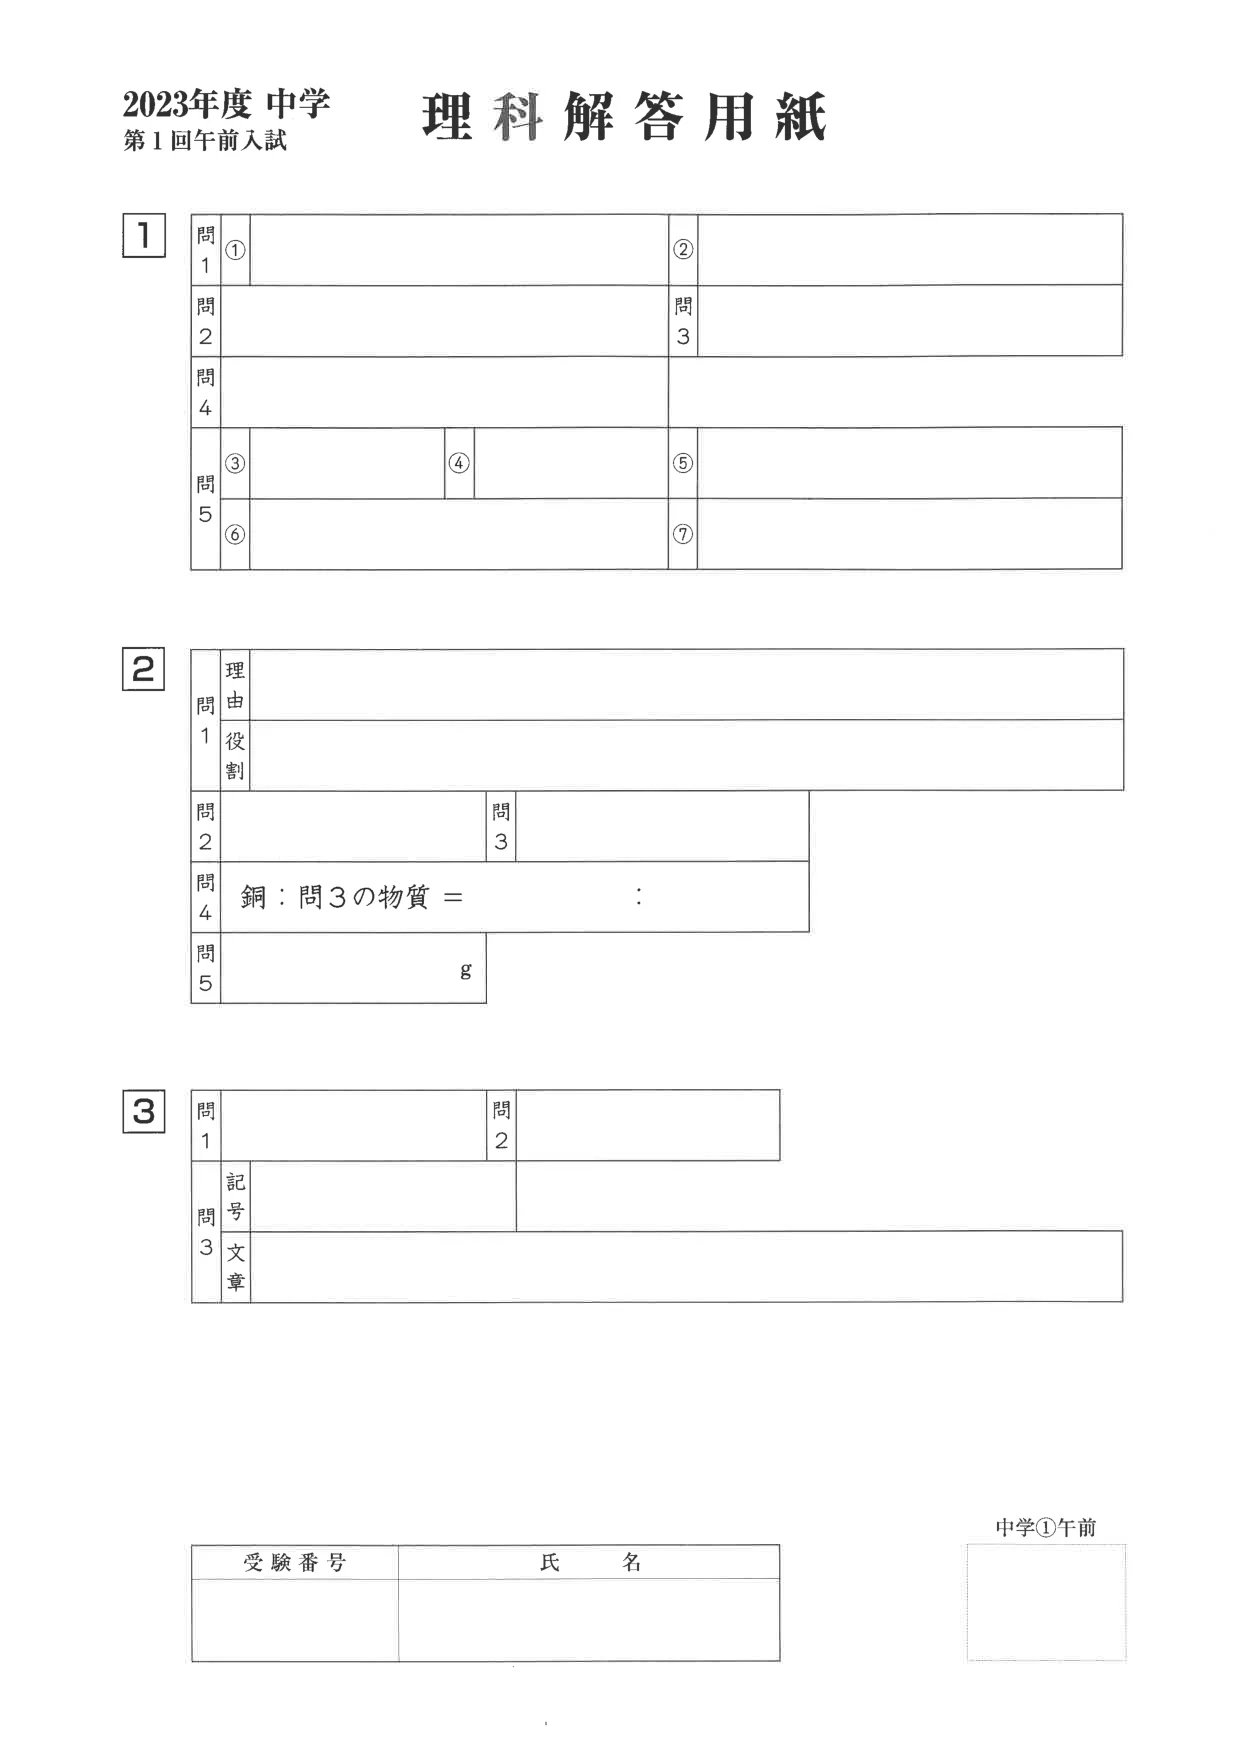
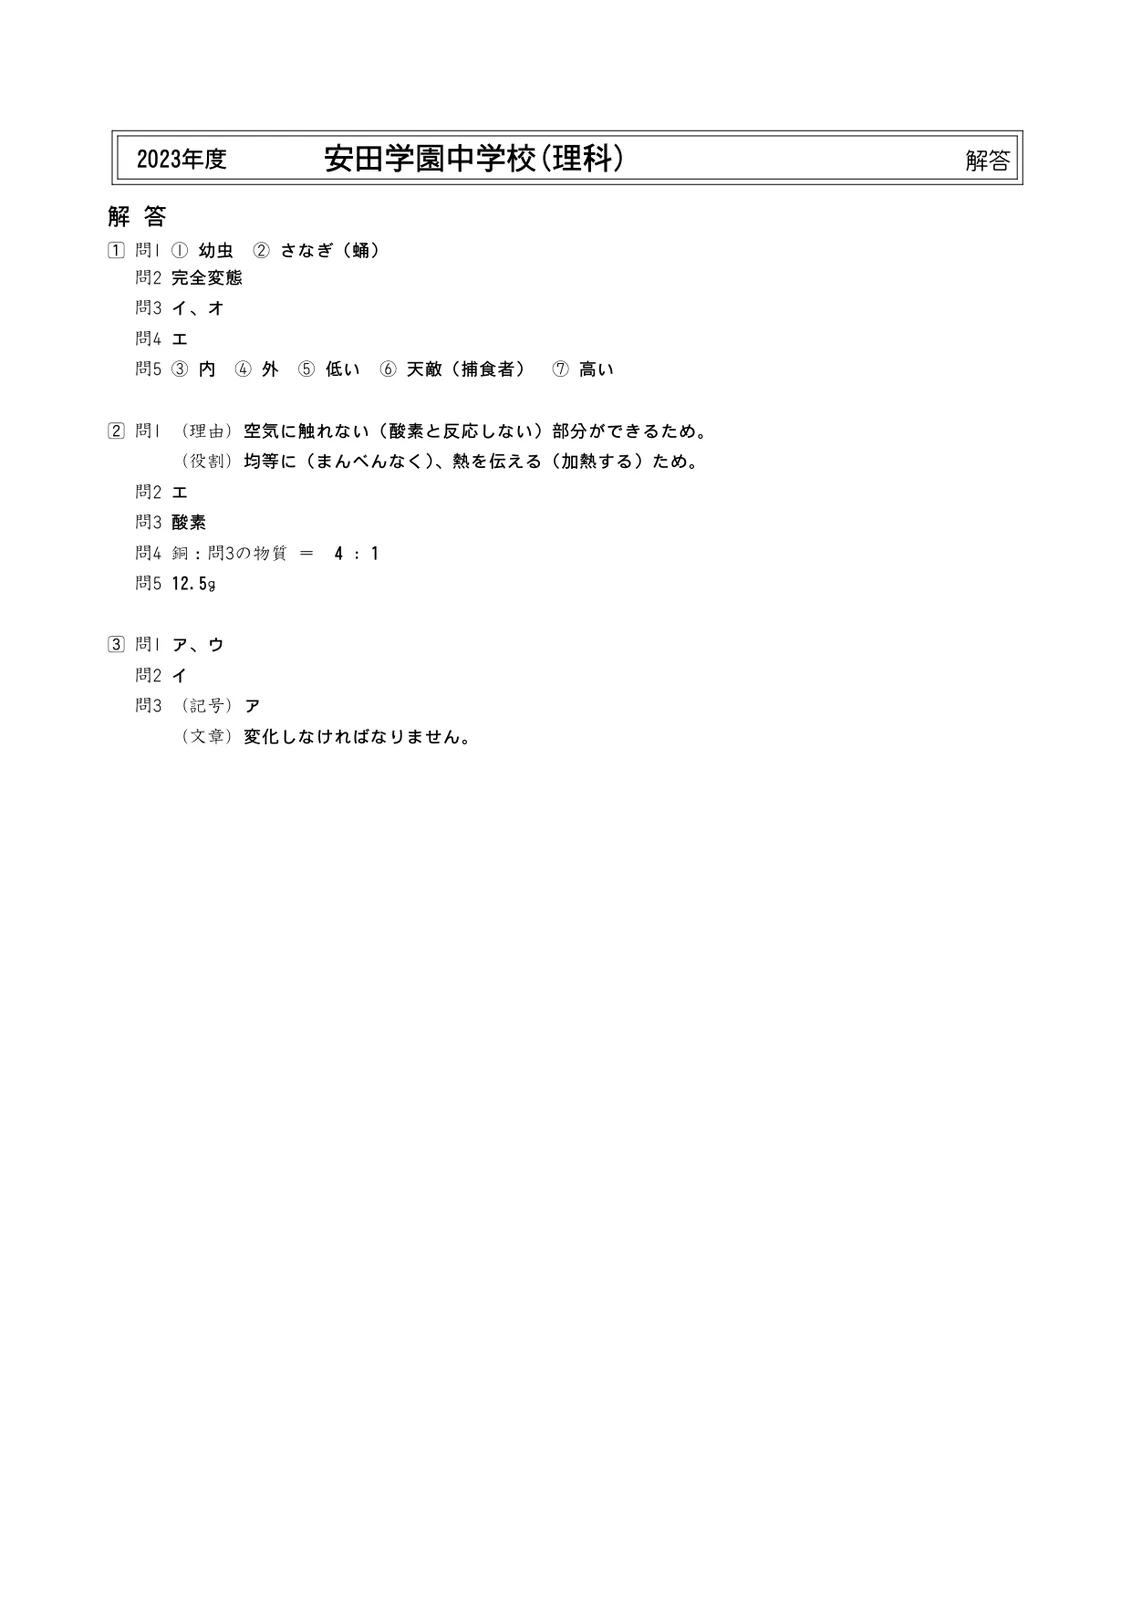
fix: 出典表記を「大問X 問Y」形式に変更、2023年度の白紙解答用紙を本物の解答画像に差し替え、全問で「模範解答原本を見る」ボタンの設置を保証 (v1.39.3)

diff --git a/junior-vet-exam-chart/src/pages/StudyPage.tsx b/junior-vet-exam-chart/src/pages/StudyPage.tsx
@@ -4,7 +4,7 @@ import React, { useState, useEffect, useRef } from 'react';
 import { useNavigate } from 'react-router-dom';
 import { useAppStore } from '../store/appStore';
 import { QuestionPromptView, AnswerAreaView, ActionState } from '../components/formats/QuestionRenderer';
-import { getQuestionSource } from '../utils/source-helper';
+import { getQuestionSource, getQuestionSectionAndQuestionSource } from '../utils/source-helper';
 import { sound } from '../utils/sound-effects';
 import { addQuestionReport } from '../utils/question-reports';
 import { ScratchPadCanvas } from '../components/ScratchPadCanvas';
@@ -519,30 +519,38 @@ export const StudyPage: React.FC = () => {
                         paddingTop: '10px',
                         marginTop: '10px',
                         borderTop: '1px solid var(--border)',
+                        display: 'flex',
+                        alignItems: 'center',
+                        justifyContent: 'space-between',
+                        flexWrap: 'wrap',
+                        gap: '8px',
                       }}
                       data-testid="study-source-credit"
                     >
+                      <div style={{ display: 'flex', alignItems: 'center', gap: '6px', fontSize: '13px', color: 'var(--text-subtle)' }}>
+                        <span>🏫</span>
+                        <span>問題の出典：<strong>{getQuestionSectionAndQuestionSource(currentQ)}</strong></span>
+                      </div>
+
                       {scanMeta && (
                         <button
                           type="button"
                           className={styles.subBtn}
                           style={{
-                            width: '100%',
+                            height: '32px',
                             minWidth: 'auto',
-                            height: 'auto',
-                            padding: '10px 14px',
-                            fontSize: '13px',
+                            padding: '0 12px',
+                            fontSize: '12px',
                             fontWeight: 700,
-                            display: 'flex',
-                            alignItems: 'center',
-                            justifyContent: 'space-between',
-                            gap: '8px',
+                            gap: '4px',
                             color: 'var(--success, #16a34a)',
                             borderColor: 'var(--success, #16a34a)',
                             background: 'var(--surface)',
-                            borderRadius: '10px',
-                            boxSizing: 'border-box',
-                            boxShadow: '0 2px 4px rgba(0,0,0,0.04)',
+                            borderRadius: '8px',
+                            cursor: 'pointer',
+                            display: 'inline-flex',
+                            alignItems: 'center',
+                            boxShadow: '0 1px 3px rgba(0,0,0,0.05)',
                           }}
                           onClick={() => {
                             sound.playPop();
@@ -550,13 +558,9 @@ export const StudyPage: React.FC = () => {
                             setShowScanModal(true);
                           }}
                           data-testid="study-open-answer-scan-btn"
-                          title={`${scanMeta.year}年度 ${getSubjectJaWithIcon(scanMeta.subject)} の原本解答スキャンを表示`}
+                          title={`${scanMeta.year}年度 ${getSubjectJaWithIcon(scanMeta.subject)} の模範解答原本スキャンを表示`}
                         >
-                          <div style={{ display: 'flex', alignItems: 'center', gap: '8px' }}>
-                            <span style={{ fontSize: '16px' }}>📖</span>
-                            <span>原本解答を見る（{getQuestionSource(currentQ)}）</span>
-                          </div>
-                          <span style={{ fontSize: '12px', fontWeight: 800 }}>❯</span>
+                          <span>✅ 模範解答原本を見る</span>
                         </button>
                       )}
                     </div>

diff --git a/junior-vet-exam-chart/tests/flow/user-requests-improvements.test.tsx b/junior-vet-exam-chart/tests/flow/user-requests-improvements.test.tsx
@@ -238,7 +238,7 @@ describe('ユーザー要望改善項目 統合テスト', () => {
       expect(kaitoBtn.className).toContain('activeTab');
     });
 
-    it('StudyPage で回答後に「原本解答を見る」ボタンが設置され、クリックすると原本解答画像が表示されること', () => {
+    it('StudyPage で回答後に「問題の出典：大問1 問...」形式で表示され、「模範解答原本を見る」ボタンから解答画像が表示されること', () => {
       const pastQ = ALL_PAST_EXAM_QUESTIONS.find(q => q.originalScan);
       expect(pastQ).toBeDefined();
 
@@ -270,22 +270,26 @@ describe('ユーザー要望改善項目 統合テスト', () => {
         if (ansBtn) fireEvent.click(ansBtn);
       }
 
-      // 「原本解答を見る」ボタンが設置されていること
+      // 出典クレジットに学校名ではなく「大問...」が表示されること
+      const credit = screen.getByTestId('study-source-credit');
+      expect(credit).toHaveTextContent(/問題の出典：大問/);
+
+      // 「模範解答原本を見る」ボタンが設置されていること
       const openAnswerScanBtn = screen.getByTestId('study-open-answer-scan-btn');
       expect(openAnswerScanBtn).toBeInTheDocument();
-      expect(openAnswerScanBtn).toHaveTextContent(/原本解答を見る/);
+      expect(openAnswerScanBtn).toHaveTextContent(/模範解答原本を見る/);
 
-      // クリックすると原本モーダルが開き、画像srcに kaito が含まれ、モーダルタイトルに原本解答が含まれること
+      // クリックすると原本モーダルが開き、画像srcに kaito が含まれ、モーダルタイトルに模範解答原本が含まれること
       fireEvent.click(openAnswerScanBtn);
       const modal = screen.getByTestId('original-scan-modal');
       expect(modal).toBeInTheDocument();
-      expect(modal).toHaveTextContent(/原本解答/);
+      expect(modal).toHaveTextContent(/模範解答原本/);
 
       const scanImg = screen.getByTestId('modal-scan-image');
       expect(scanImg).toHaveAttribute('src', expect.stringContaining('/kaito_p'));
     });
 
-    it('特訓問題（focus-...）でも原本解答ボタンが設置され、原本解答を表示できること', () => {
+    it('特訓問題（focus-...）でも「問題の出典：大問...」と「模範解答原本を見る」ボタンが設置されること', () => {
       // ユーザーの画像にあった社会の摂関政治問題
       const focusQ = {
         id: 'focus-shakai-sekkan-politics',
@@ -322,11 +326,14 @@ describe('ユーザー要望改善項目 統合テスト', () => {
         </MemoryRouter>
       );
 
-      // 「原本解答を見る」ボタンが「問題の出典」の代わりに設置されていること
+      // 「問題の出典：大問...」が表示されていること
+      const credit = screen.getByTestId('study-source-credit');
+      expect(credit).toHaveTextContent(/問題の出典：大問/);
+
+      // 「模範解答原本を見る」ボタンが設置されていること
       const openBtn = screen.getByTestId('study-open-answer-scan-btn');
       expect(openBtn).toBeInTheDocument();
-      expect(openBtn).toHaveTextContent(/原本解答を見る/);
-      expect(openBtn).toHaveTextContent(/2024年度 安田学園中学校 社会/);
+      expect(openBtn).toHaveTextContent(/模範解答原本を見る/);
 
       // クリックで原本解答モーダルが開くこと
       fireEvent.click(openBtn);

diff --git a/junior-vet-exam-chart/src/utils/source-helper.ts b/junior-vet-exam-chart/src/utils/source-helper.ts
@@ -61,3 +61,83 @@ export function getQuestionSource(question?: Partial<SampleQuestion> | null): st
   // 4. その他の特訓カリキュラムおよびサンプル問題は2024年度過去問に準拠
   return `2024年度 安田学園中学校${subjectName ? ` ${subjectName}` : ''}`;
 }
+
+/**
+ * 設問データから「大問X 問Y-Z」形式の具体的な設問出典文字列を生成する
+ * 学校名などの重複情報は除外し、児童・保護者が原本の該当箇所を即座に照合できる表記を返す
+ * 例: 「大問1 問1-4」「大問2 問3」「大問1 問1」
+ */
+export function getQuestionSectionAndQuestionSource(
+  question?: Partial<SampleQuestion> | null
+): string {
+  if (!question) {
+    return '大問1 問1';
+  }
+
+  const scan = question.originalScan;
+  const sectionNum = scan?.sectionNumber;
+  const qNum = scan?.questionNumber;
+  const partNum = scan?.partNumber;
+
+  // 丸数字（①〜⑳）やカタカナ丸数字を半角数字等に正規化
+  const normalizePart = (p?: string): string => {
+    if (!p) return '';
+    return p
+      .replace(/[①-⑳]/g, m => String(m.charCodeAt(0) - 9311))
+      .replace(/^[\[\(（【](.*?)[\]\)）】]$/, '$1')
+      .trim();
+  };
+
+  // 1. originalScan に sectionNumber がある場合（過去問）
+  if (sectionNum !== undefined) {
+    let result = `大問${sectionNum}`;
+    if (qNum) {
+      const cleanQ = qNum.replace(/^[問設問]/, '').trim();
+      const cleanPart = normalizePart(partNum);
+      if (cleanPart) {
+        result += ` 問${cleanQ}-${cleanPart}`;
+      } else {
+        result += ` 問${cleanQ}`;
+      }
+    } else if (partNum) {
+      result += ` 問${normalizePart(partNum)}`;
+    }
+    return result;
+  }
+
+  // 2. category や skillTitle から大問番号を抽出
+  const cat = question.category || question.skillTitle || '';
+  const matchSection = cat.match(/大問\s*([0-9０-９]+)/);
+  if (matchSection) {
+    const sNum = matchSection[1];
+    const matchQ = (question.prompt || '').match(/問\s*([0-9０-９]+)(?:[\-ー之\s]*([0-9０-９①-⑳]+))?/);
+    if (matchQ) {
+      const q = matchQ[1];
+      const p = normalizePart(matchQ[2]);
+      return p ? `大問${sNum} 問${q}-${p}` : `大問${sNum} 問${q}`;
+    }
+    return `大問${sNum} 問1`;
+  }
+
+  // 3. IDから推測（例: past-exam-2023-rika-rika-2023-01-02 など）
+  const idMatch = (question.id || '').match(/(\d{2})-(\d{2})(?:-(\d+))?/);
+  if (idMatch) {
+    const s = parseInt(idMatch[1], 10);
+    const q = parseInt(idMatch[2], 10);
+    const p = idMatch[3] ? parseInt(idMatch[3], 10) : undefined;
+    return p !== undefined ? `大問${s} 問${q}-${p}` : `大問${s} 問${q}`;
+  }
+
+  // 4. 特訓カリキュラム問題等の安全なフォールバック
+  if (question.subject === 'sansu') {
+    return '大問1 問1-4';
+  } else if (question.subject === 'rika') {
+    return '大問1 問1-2';
+  } else if (question.subject === 'shakai') {
+    return '大問2 問1-3';
+  } else if (question.subject === 'kokugo') {
+    return '大問1 問1';
+  }
+
+  return '大問1 問1';
+}

diff --git a/junior-vet-exam-chart/src/components/OriginalScanModal.tsx b/junior-vet-exam-chart/src/components/OriginalScanModal.tsx
@@ -109,7 +109,7 @@ export const OriginalScanModal: React.FC<OriginalScanModalProps> = ({
         <div style={{ display: 'flex', alignItems: 'center', gap: '10px' }}>
           <span style={{ fontSize: '15px', fontWeight: 800 }}>
             {scanType === 'kaito'
-              ? `✅ 原本解答 (${year}年度)`
+              ? `✅ 模範解答原本 (${year}年度)`
               : (title || `📸 問題用紙原本 (${year}年度)`)}
           </span>
           {allowSwitchType && (
@@ -154,7 +154,7 @@ export const OriginalScanModal: React.FC<OriginalScanModalProps> = ({
                 }}
                 data-testid="switch-scan-kaito"
               >
-                ✅ 原本解答
+                ✅ 模範解答原本
               </button>
             </div>
           )}

diff --git a/junior-vet-exam-chart/src/components/final-challenge/ExamProblemViewer.tsx b/junior-vet-exam-chart/src/components/final-challenge/ExamProblemViewer.tsx
@@ -111,10 +111,10 @@ export const ExamProblemViewer: React.FC<ExamProblemViewerProps> = ({
                 onScanTypeChange('kaito');
               }}
               data-testid="viewer-scan-kaito-btn"
-              title="原本解答・配点スキャンを表示"
+              title="模範解答・配点原本スキャンを表示"
               style={{ fontSize: '11px', padding: '3px 8px', background: scanType === 'kaito' ? '#DCFCE7' : 'transparent', color: scanType === 'kaito' ? '#15803d' : undefined }}
             >
-              ✅ 原本解答
+              ✅ 模範解答原本
             </button>
           </div>
         )}

diff --git a/junior-vet-exam-chart/src/utils/exam-scan-helper.ts b/junior-vet-exam-chart/src/utils/exam-scan-helper.ts
@@ -16,7 +16,7 @@ export const SCAN_PAGE_COUNTS: Record<number, Record<Subject, ScanPageInfo>> = {
   },
   2023: {
     rika: { totalProblemPages: 5, totalAnswerPages: 1 },
-    sansu: { totalProblemPages: 8, totalAnswerPages: 2 },
+    sansu: { totalProblemPages: 8, totalAnswerPages: 1 },
     shakai: { totalProblemPages: 6, totalAnswerPages: 1 },
     kokugo: { totalProblemPages: 10, totalAnswerPages: 2 },
   },
